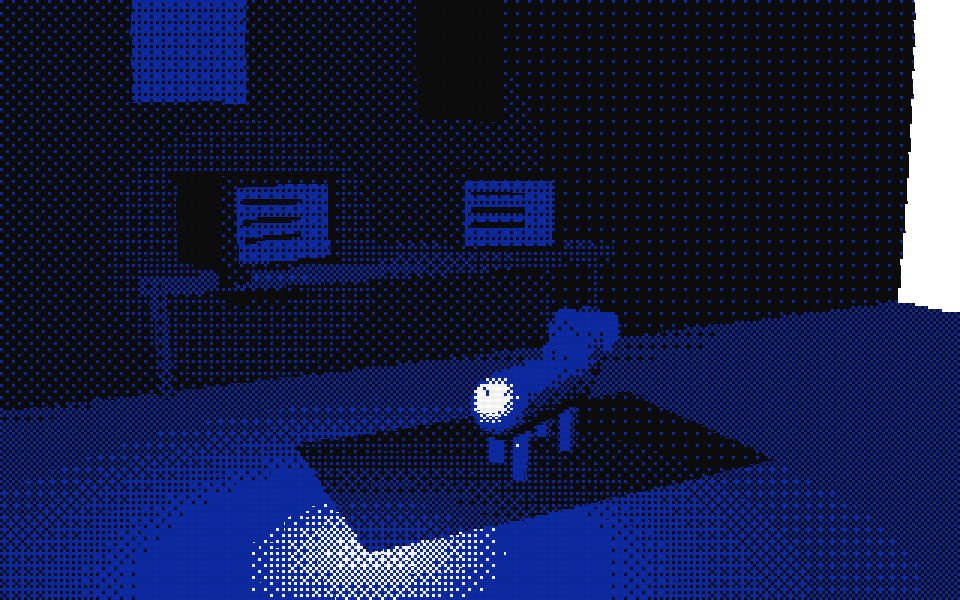
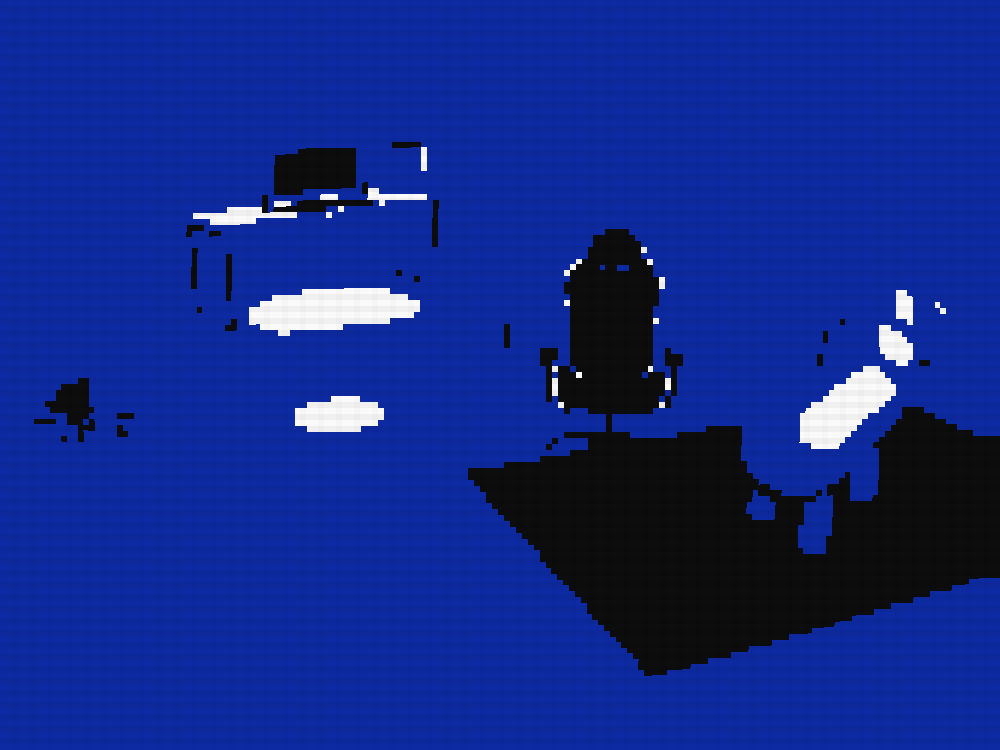
feat(hero): hero full-width preto com o diorama calibrado (luz, camera casa-de-bonecas, ban a frente)
Reformula o hero como full-width de fundo preto, com o titulo Archivo Black gigante e uma palavra em Averia italic FORA da tela CRT (texto nunca por cima), o phosphor so em acento (marcador, botao), e a marca horizontal do Ban (invertida) no rodape do hero. Calibra o diorama que estava escuro: luz bem mais forte (ambiente + tres direcionais), camera com enquadramento de casa de bonecas (olha de cima pra dentro) e dolly no scroll, e o Ban maior e a frente no tapete. Remove o glitch de texto (SignalText) do hero. Fallback estatico atualizado pelo render calibrado.

diff --git a/src/pages/Home.tsx b/src/pages/Home.tsx
@@ -1,7 +1,6 @@
 import { Head } from "vite-react-ssg";
 import { Link, useLoaderData } from "react-router-dom";
 import LineReveal from "@/motion/LineReveal";
-import SignalText from "@/motion/SignalText";
 import Reveal from "@/motion/Reveal";
 import Parallax from "@/motion/Parallax";
 import CountUp from "@/motion/CountUp";
@@ -65,44 +64,55 @@ const Home = () => {
         <meta name="twitter:image" content="https://botellho.com/og-image.jpg" />
       </Head>
 
-      {/* ===== Hero (split; texto fora da tela) ===== */}
-      <section className="px-4 pt-10 md:px-6 md:pt-14">
-        <div className="grid items-center gap-10 lg:grid-cols-[1.05fr_0.95fr] lg:gap-12">
-          <div>
-            <span className="type-label flex items-center gap-2 text-muted-foreground">
-              <span className="text-phosphor">▚</span> Estúdio de web e experiências digitais
+      {/* ===== Hero full-width, fundo preto, texto fora da tela ===== */}
+      <section className="dark bg-background text-foreground">
+        <div className="flex min-h-[calc(100svh-var(--bar-h))] flex-col justify-between px-4 py-8 md:px-6 md:py-10">
+          <div className="flex items-center justify-between">
+            <span className="type-label flex items-center gap-2 text-foreground/60">
+              <span className="text-phosphor">▪</span> estúdio de web e experiências digitais
             </span>
-            <h1 className="type-tese mt-5 max-w-2xl">
-              <LineReveal as="span" className="block">Web que se move.</LineReveal>
-              <span className="block text-phosphor"><SignalText text="Experiências digitais" delay={400} /></span>
-              <LineReveal as="span" className="block" delay={0.14}>feitas para durar na memória.</LineReveal>
-            </h1>
-            <p className="mt-7 max-w-md font-sans text-base leading-relaxed text-muted-foreground">
-              Craft de nível de prêmio em web e WebGL, para marcas, cultura e
-              instituições que tratam o digital como experiência, não como folheto.
-            </p>
-            <div className="mt-8 flex flex-wrap gap-3">
-              <Link to="/contato" className="cmd-button">Começar um projeto</Link>
-              <Link to="/trabalhos" className="cmd-button-ghost">Ver trabalhos</Link>
-            </div>
+            <span className="type-label hidden text-foreground/40 md:block">belo horizonte, br</span>
           </div>
 
-          <Parallax amount={6}>
-            <Window title="ban.exe" phosphor bodyClassName="!p-0">
-              <div className="crt-frame aspect-[4/3] w-full !rounded-none border-0" data-cursor="3d">
+          <div className="grid items-center gap-8 py-8 lg:grid-cols-[1fr_0.92fr] lg:gap-12">
+            <div>
+              <h1 className="type-tese">
+                <LineReveal as="span" className="block">Web que se move.</LineReveal>
+                <LineReveal as="span" className="block" delay={0.1}>
+                  Experiências <span className="font-serif italic font-normal">digitais</span>
+                </LineReveal>
+                <LineReveal as="span" className="block" delay={0.2}>feitas para durar.</LineReveal>
+              </h1>
+              <p className="mt-8 max-w-md font-sans text-base leading-relaxed text-foreground/70">
+                Craft de nível de prêmio em web e WebGL, para marcas, cultura e
+                instituições que tratam o digital como experiência.
+              </p>
+              <div className="mt-8 flex flex-wrap gap-3">
+                <Link to="/contato" className="cmd-button">Começar um projeto</Link>
+                <Link to="/trabalhos" className="cmd-button-ghost !border-paper/40 !text-paper">Ver trabalhos</Link>
+              </div>
+            </div>
+
+            <Parallax amount={5}>
+              <div className="crt-frame aspect-[4/3] w-full" data-cursor="3d">
                 <SignatureCanvas
                   className="absolute inset-0"
-                  crt={0.5}
-                  camera={{ fov: 42, position: [-4, 2, 8] }}
+                  crt={0.55}
+                  camera={{ fov: 42, position: [-3, 3.4, 7.5] }}
                   fallback={<img src="/hero-fallback.png" alt="O estúdio do Ban, em bitmap" className="h-full w-full object-cover" style={{ imageRendering: "pixelated" }} />}
                 >
                   <DioramaScene />
                 </SignatureCanvas>
-                <div className="crt-frame__glass !rounded-none" />
+                <div className="crt-frame__glass" />
                 <span className="crt-frame__tag type-label">estúdio // ao vivo</span>
               </div>
-            </Window>
-          </Parallax>
+            </Parallax>
+          </div>
+
+          <div className="flex items-center justify-between">
+            <img src="/ban/ban-mark.png" alt="Ban" className="h-7 w-12 object-contain invert md:h-9 md:w-16" style={{ imageRendering: "pixelated" }} />
+            <span className="type-label text-foreground/40">role para explorar ↓</span>
+          </div>
         </div>
       </section>
 

diff --git a/src/webgl/DioramaScene.tsx b/src/webgl/DioramaScene.tsx
@@ -73,17 +73,21 @@ const DioramaScene = () => {
 
   useFrame(() => {
     const p = scroll.current;
-    const target = new THREE.Vector3(-4 + p * 2.6 + pointer.current.x * 0.9, 2 - p * 0.9 + pointer.current.y * 0.6, 8 - p * 4);
+    // Enquadramento tipo casa de bonecas (olha de cima pra dentro do quarto),
+    // com dolly pra dentro no scroll e parallax de cursor.
+    const target = new THREE.Vector3(-3 + p * 1.8 + pointer.current.x * 1, 3.4 - p * 1.2 + pointer.current.y * 0.7, 7.5 - p * 2.6);
     camera.position.lerp(target, 0.06);
-    camera.lookAt(0.2 + pointer.current.x * 0.4, 0.2, -0.6);
+    camera.lookAt(0.3 + pointer.current.x * 0.4, 0.4, -0.4);
   });
 
   return (
     <>
-      <ambientLight intensity={0.5} />
-      <directionalLight position={[-4, 6, 5]} intensity={3} />
-      <directionalLight position={[5, 2, -1]} intensity={1.6} />
-      <pointLight position={[-1, 1.4, 0]} intensity={16} distance={8} color="#4a6bd8" />
+      <ambientLight intensity={0.85} />
+      <directionalLight position={[-4, 7, 6]} intensity={4.2} />
+      <directionalLight position={[6, 3, 1]} intensity={2.4} />
+      <directionalLight position={[2, 4, 6]} intensity={1.8} />
+      {/* acento phosphor discreto vindo da tela do monitor */}
+      <pointLight position={[-1.1, 1.6, -1]} intensity={12} distance={6} color="#2a4bd8" />
 
       {/* Sala em corte: chao + parede de fundo + parede lateral */}
       <mesh rotation={[-Math.PI / 2, 0, 0]} position={[0, 0, 0]}>
@@ -117,12 +121,12 @@ const DioramaScene = () => {
       <Chair />
       <Plant />
 
-      {/* Tapete + o Ban vivendo na cena */}
-      <mesh rotation={[-Math.PI / 2, 0, 0]} position={[1.4, 0.02, 1.6]}>
-        <planeGeometry args={[4, 2.6]} />
-        <meshStandardMaterial color="#565656" roughness={0.98} />
+      {/* Tapete + o Ban vivendo na cena, maior e mais a frente */}
+      <mesh rotation={[-Math.PI / 2, 0, 0]} position={[1.8, 0.03, 2.2]}>
+        <planeGeometry args={[4.6, 3] as [number, number]} />
+        <meshStandardMaterial color="#4a4a4a" roughness={0.98} />
       </mesh>
-      <BanModel position={[1.4, 0.5, 1.7]} scale={0.5} />
+      <BanModel position={[1.8, 0.7, 2.3]} scale={0.72} />
     </>
   );
 };
